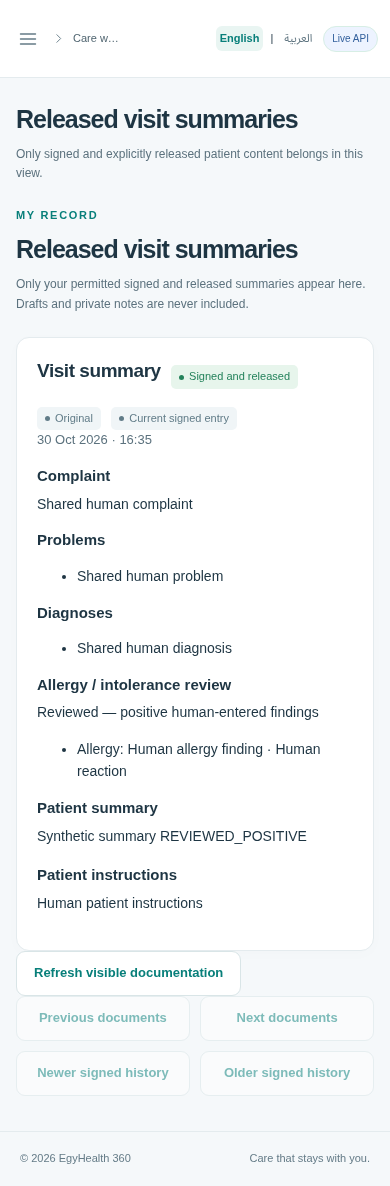
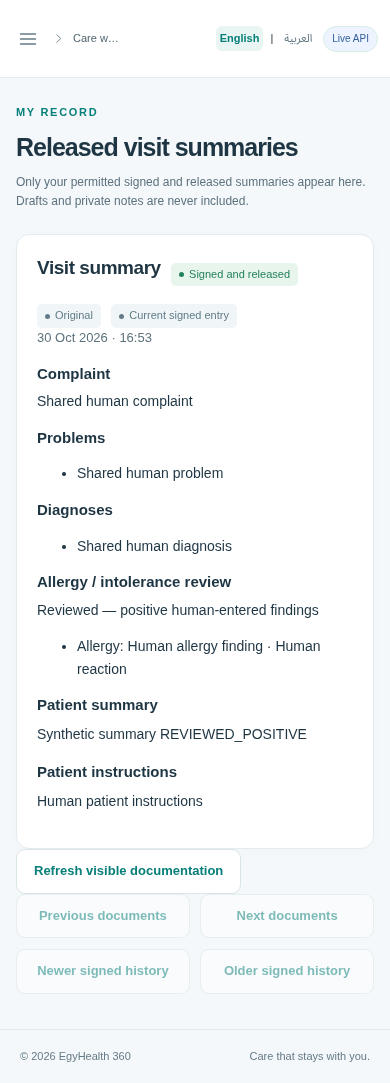
fix(web): show one released-summary page heading

diff --git a/apps/web/src/components/patient.tsx b/apps/web/src/components/patient.tsx
@@ -52,17 +52,9 @@ export function PatientScreen({ path }: { path: string }) {
     );
   if (api.mode === "live" && path === "/patient/summaries")
     return (
-      <>
-        <Heading
-          title={t("Released visit summaries")}
-          description={t(
-            "Only signed and explicitly released patient content belongs in this view.",
-          )}
-        />
-        <ReleasedSummariesScreen
-          service={api.documentation ?? createUnavailableDocumentation()}
-        />
-      </>
+      <ReleasedSummariesScreen
+        service={api.documentation ?? createUnavailableDocumentation()}
+      />
     );
   if (path === "/patient") return <Dashboard />;
   if (path === "/patient/discover") return <Discovery />;
